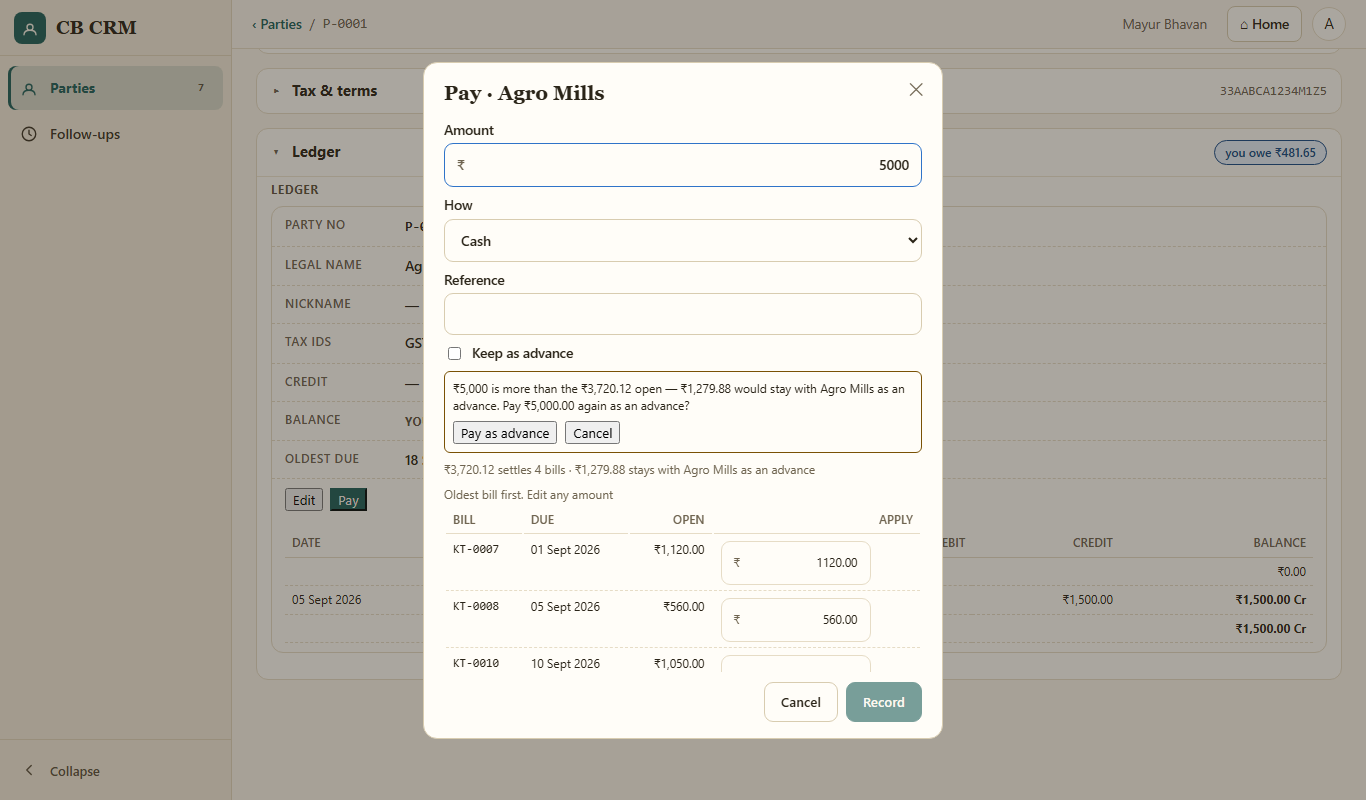
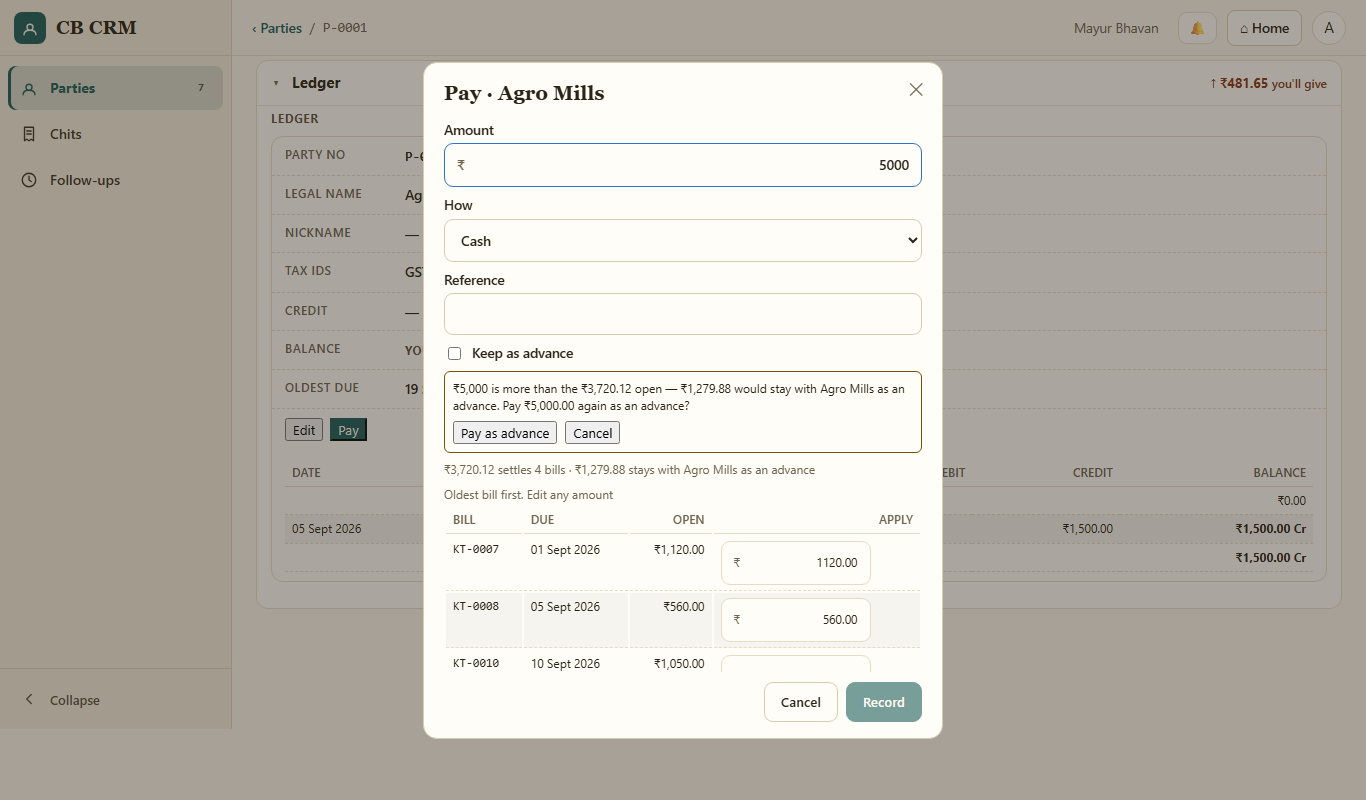
Lists round: fix what the wider suites found (payments words, money guard, kural timer test)
- cap-crm.js: the Dues cell shows the figure through Math.abs, never a minus on a balance (money-input-guard).
- payments.cjs E9: CB CRM dues are said "you'll get / you'll give" (a symbol, a word and a colour).
- kural.js: the phone's 7 s turn-taking keeps its clock across repaints; kural-footer.cjs gives the fake clock a beat
  now that the band paints in the first moments.

diff --git a/public/app/kural.js b/public/app/kural.js
@@ -159,17 +159,17 @@
       EL.addEventListener('click', onClick); EL.addEventListener('keydown', function (e) { if ((e.key === 'Enter' || e.key === ' ') && e.target.closest && e.target.closest('[data-kswap]')) { e.preventDefault(); swap(); } });
     }
     var prevH = EL && !EL.hidden ? EL.offsetHeight : 0;
-    clearInterval(TIMER); TIMER = null;
+    /* the phone's 7 s turn-taking keeps ITS clock across repaints (a repaint must not restart the count); it is stopped below when the band is not drawn or the person is in charge */
     /* ONE place: the band is never a part of a header, a bar or a title row, whoever mounted it or moved it there (Round U, 2026-10-09) */
     if (EL.closest(HEAD_SEL)) (HOST && !HOST.closest(HEAD_SEL) ? HOST : doc.body).appendChild(EL);
     var k = find(ROUTE);
     BLOCKED = blockedNow();
     /* a band that may not be drawn BESIDE a warning keeps its room (quiet, blank): the page does not grow and shrink as warnings come and go (UI9) */
     if (k && BLOCKED) makeRoom(prevH > 20 ? prevH : reserveH(), true); else unreserve();
-    if (!k || BLOCKED) { EL.hidden = true; EL.innerHTML = ''; EL.removeAttribute('data-kural'); touch(); return; }
+    if (!k || BLOCKED) { clearInterval(TIMER); TIMER = null; EL.hidden = true; EL.innerHTML = ''; EL.removeAttribute('data-kural'); touch(); return; }
     EL.hidden = false; EL.setAttribute('data-kural', String(k.no));
     if (hiddenToday()) {
-      EL.className = 'cbk off'; EL.innerHTML = '<button type="button" class="cbk-show" data-kshow="1" data-testid="kural-show" aria-label="Show the kural">குறள் ' + k.no + ' ›</button>'; touch(); return;
+      clearInterval(TIMER); TIMER = null; EL.className = 'cbk off'; EL.innerHTML = '<button type="button" class="cbk-show" data-kshow="1" data-testid="kural-show" aria-label="Show the kural">குறள் ' + k.no + ' ›</button>'; touch(); return;
     }
     var m = meaning(k), verse = '<span class="cbk-v" lang="ta" data-testid="kural-verse">' + kline(k.verse[0]) + kline(k.verse[1]) + '</span>',
       mean = '<span class="cbk-m" lang="' + esc(m.lang) + '" data-testid="kural-meaning">' + esc(m.text) + '</span>';
@@ -179,7 +179,8 @@
       + '<button type="button" class="cbk-x" data-khide="1" data-testid="kural-hide" aria-label="Hide the kural for today" title="Hide for today">✕</button>';
     var phone = EL.clientWidth > 0 && EL.clientWidth <= 640, body = EL.querySelector('.cbk-body');
     if (phone) { body.setAttribute('role', 'button'); body.setAttribute('tabindex', '0'); body.setAttribute('aria-label', 'Thirukkural ' + k.no + '. Tap to switch the verse and its meaning'); }
-    if (phone && !still() && !PAUSED) TIMER = setInterval(function () { SECOND = !SECOND; EL && EL.classList.toggle('second', SECOND); }, 7000);
+    if (!(phone && !still() && !PAUSED)) { clearInterval(TIMER); TIMER = null; }
+    else if (!TIMER) TIMER = setInterval(function () { SECOND = !SECOND; EL && EL.classList.toggle('second', SECOND); }, 7000);
     touch();
   }
   function still() {

diff --git a/public/app/cap-crm.js b/public/app/cap-crm.js
@@ -104,7 +104,7 @@ function crmDueCell(p) {
   if (!b) return '<span class="due settled"' + tid + '>' + esc(tx('Settled')) + '</span>';
   return b > 0
     ? '<span class="due get"' + tid + ' title="' + esc(tx('They owe you') + oldest) + '"><span aria-hidden="true">↓</span> ' + esc(bkMoney(b, CRM.currency)) + ' <span class="w">' + esc(tx("you'll get")) + '</span>' + late + '</span>'
-    : '<span class="due give"' + tid + ' title="' + esc(tx('You owe them') + oldest) + '"><span aria-hidden="true">↑</span> ' + esc(bkMoney(-b, CRM.currency)) + ' <span class="w">' + esc(tx("you'll give")) + '</span>' + late + '</span>';
+    : '<span class="due give"' + tid + ' title="' + esc(tx('You owe them') + oldest) + '"><span aria-hidden="true">↑</span> ' + esc(bkMoney(Math.abs(b), CRM.currency)) + ' <span class="w">' + esc(tx("you'll give")) + '</span>' + late + '</span>';
 }
 /** the next follow-up is ALWAYS on the row; an overdue one is red, says Late, and carries its date */
 function crmFuCell(p) {
